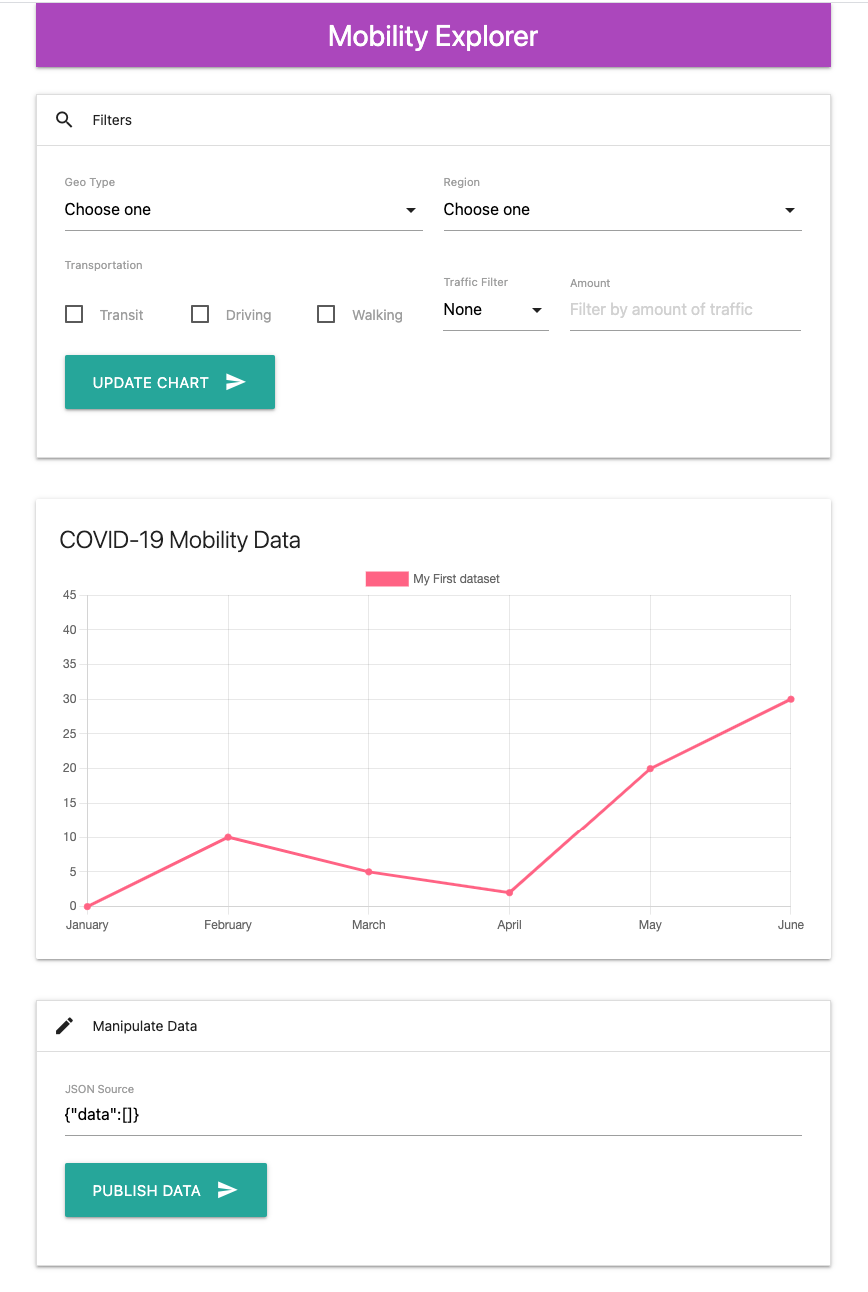
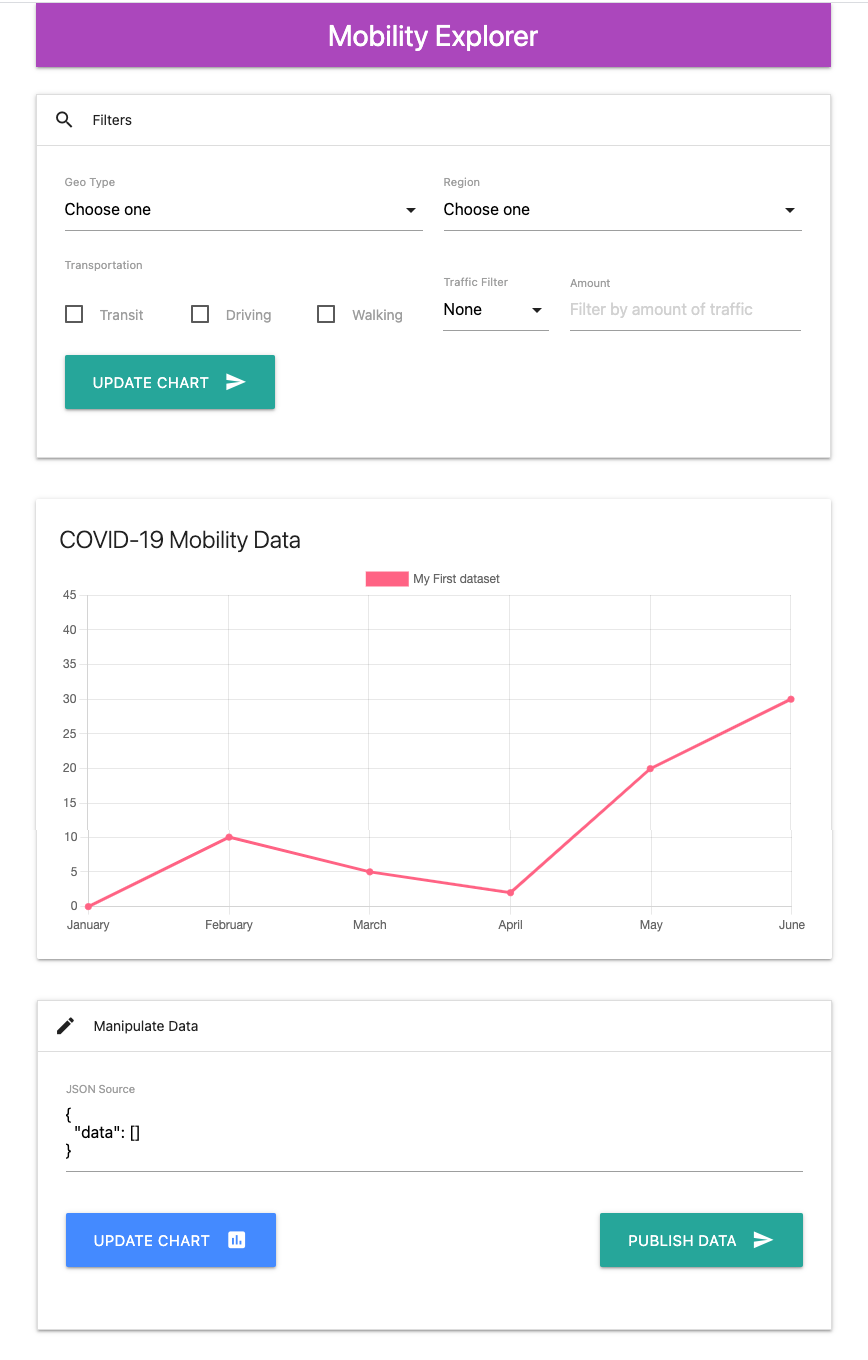
Add Update Chart.

diff --git a/templates/index.html b/templates/index.html
@@ -130,7 +130,12 @@
                       <textarea id="json_source" name="updateData" class="materialize-textarea">{"data":[]}</textarea>
                       <label for="json_source">JSON Source</label>
                     </div>
-                    <div class="col s12">
+                    <div class="input-field col s12 m6">
+                      <button class="btn waves-effect waves-light btn-large blue accent-2" type="submit" name="action">Update Chart
+                        <i class="material-icons right">insert_chart</i>
+                      </button>
+                    </div>
+                    <div class="input-field col s12 m6 right-align">
                       <button class="btn waves-effect waves-light btn-large" type="submit" name="action">Publish Data
                         <i class="material-icons right">send</i>
                       </button>
@@ -181,7 +186,8 @@
         $('.collapsible').collapsible();
         $('select').formSelect();
 
-        // $('#json_source').val('New Text');
+        const defaultData = {data:[]}
+        $('#json_source').val(JSON.stringify(defaultData, undefined, 2));
         M.textareaAutoResize($('#json_source'));
       });
     </script>
